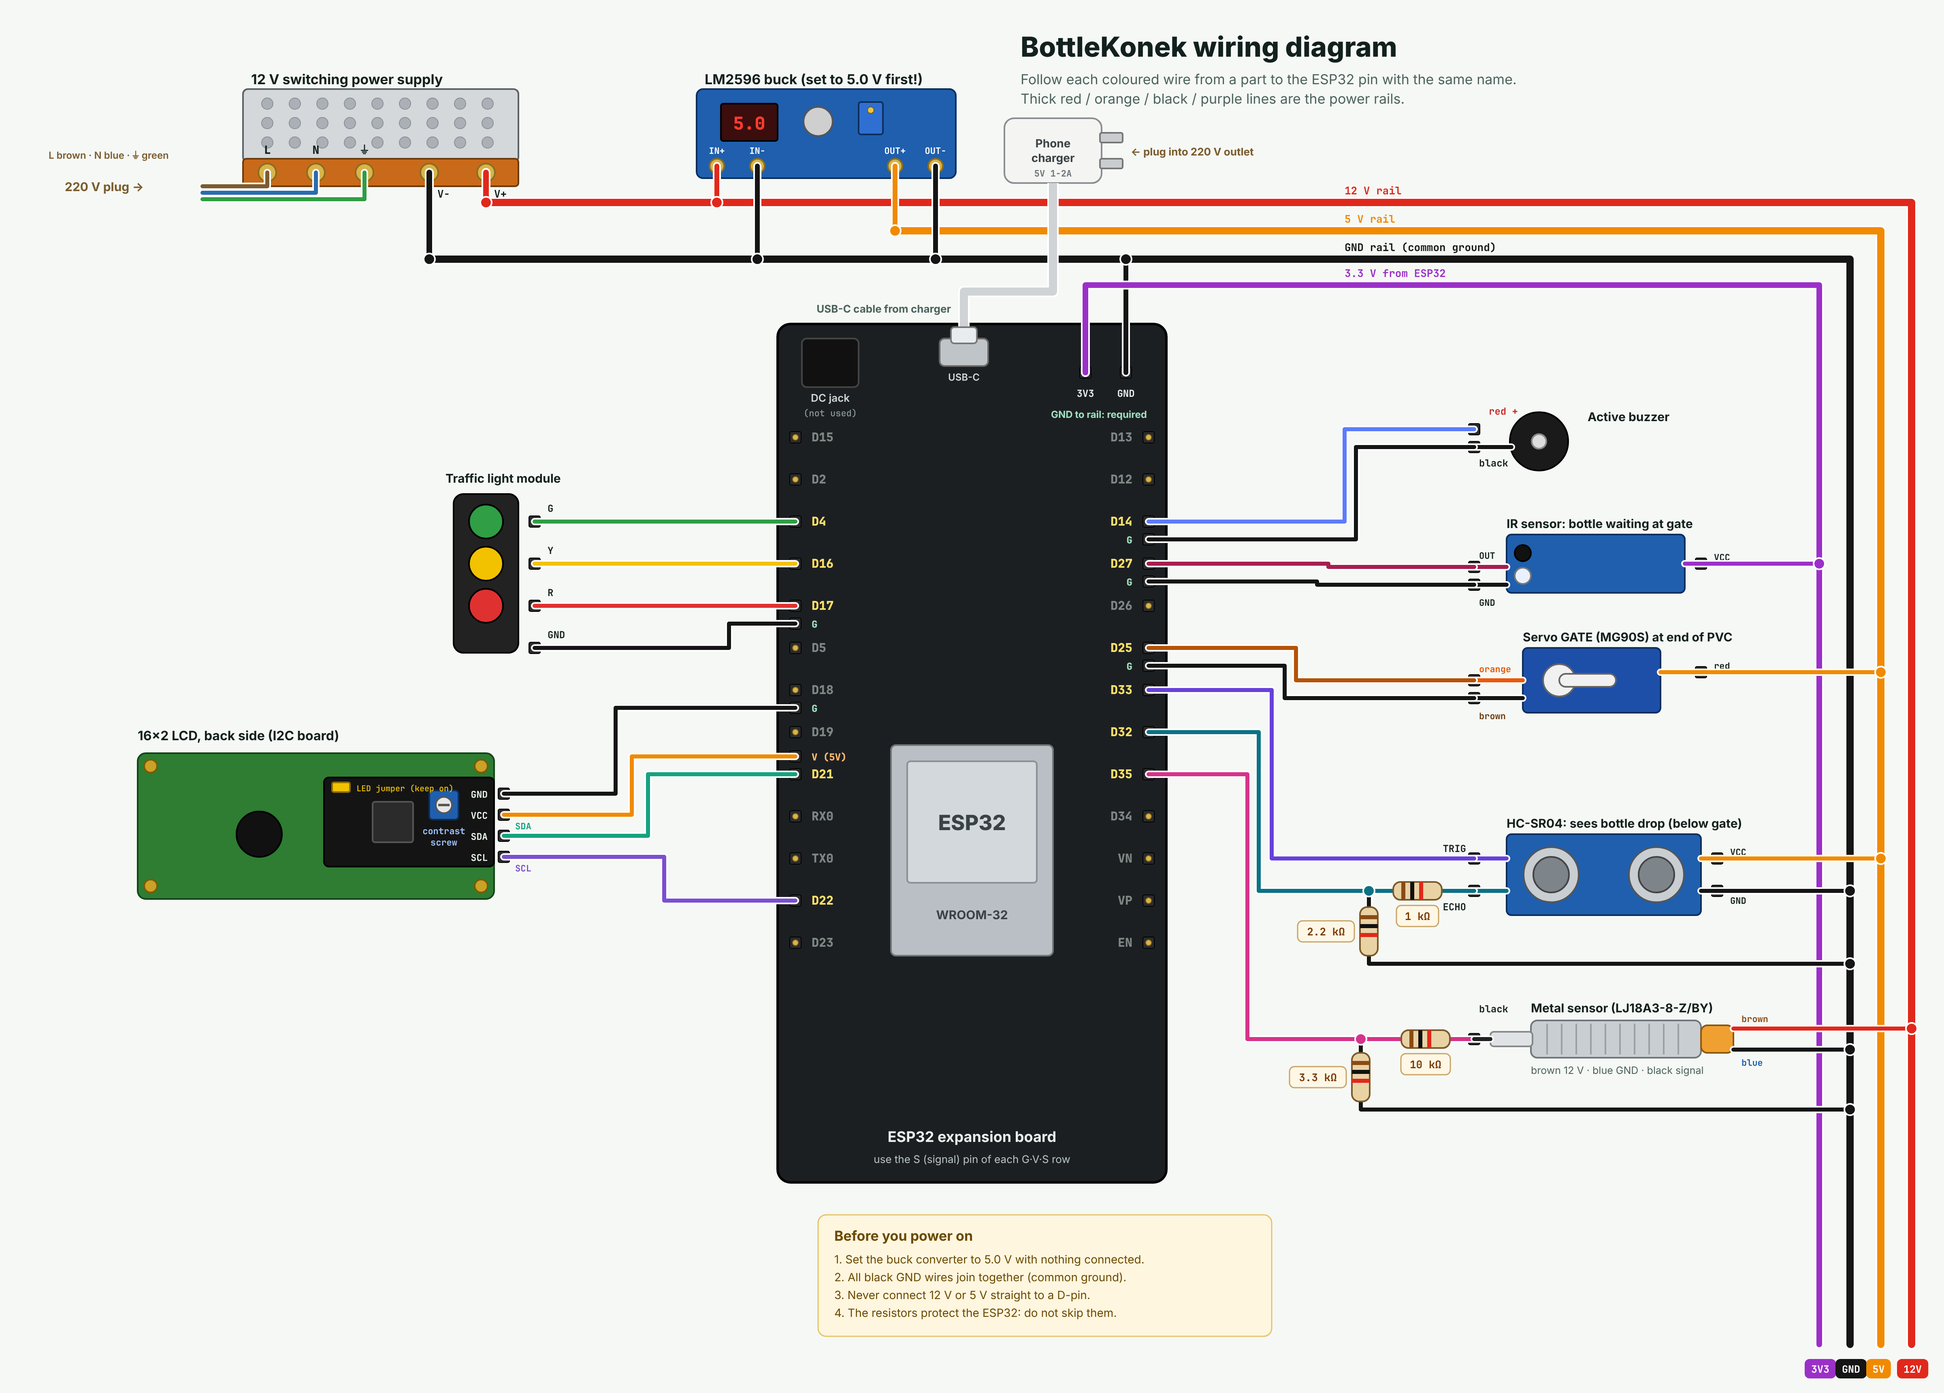
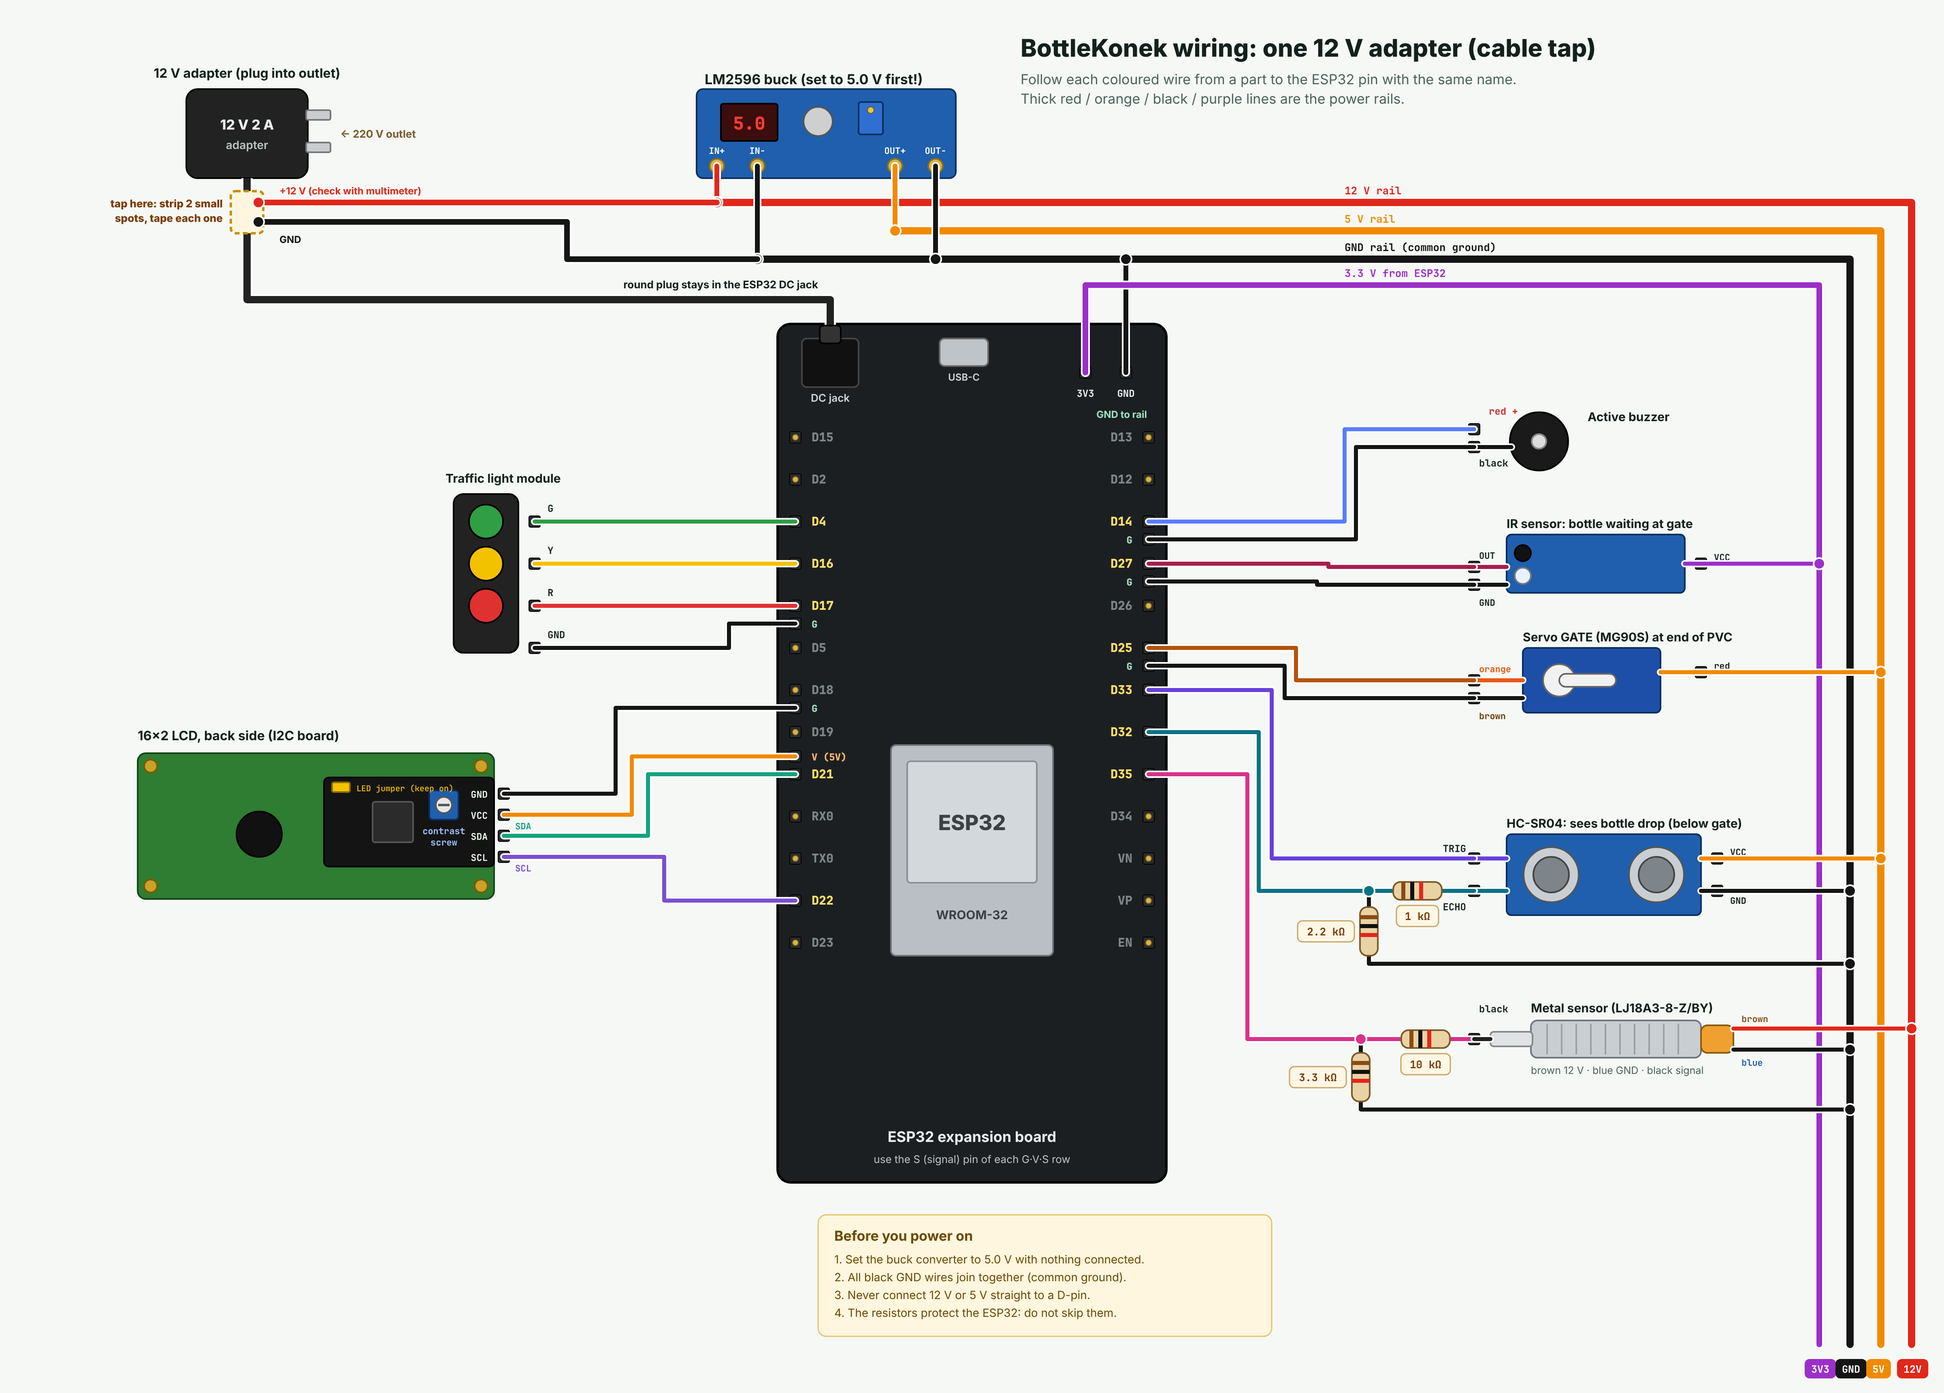
Final power: one 12 V adapter into the ESP32 jack, 12 V/GND tapped from the adapter cable; make it the main wiring diagram
Claude-Session: https://claude.ai/code/session_01FLWhppZiZoj8Tbu8EAL1cu

diff --git a/firmware/make_wiring_final.py b/firmware/make_wiring_final.py
@@ -1,0 +1,352 @@
+#!/usr/bin/env python3
+"""BottleKonek picture-style wiring diagram (real wires, part drawings).
+
+Writes wiring.svg; render to PNG with any browser (see README).
+Pin rows follow the ESP32 expansion board: left row D15..D23, right row D13..EN.
+"""
+from xml.sax.saxutils import escape
+
+W, H = 2400, 1720
+o = []
+
+C = dict(v12='#e0281b', v5='#f08a00', gnd='#151515', v33='#9b30c8')
+SIGCOL = ['#1f77d0', '#14a37f', '#d6338a', '#7a4fd1', '#c99a00', '#0aa5c2', '#e8590c', '#2f9e44',
+          '#5c7cfa', '#a61e4d', '#087f5b', '#b45309', '#6741d9', '#0b7285']
+
+
+def T(x, y, s, size=15, w=500, anchor='start', fill='#13211e', fam='Inter,Arial,sans-serif'):
+    o.append(f'<text x="{x}" y="{y}" font-size="{size}" font-weight="{w}" text-anchor="{anchor}" fill="{fill}" font-family="{fam}">{escape(s)}</text>')
+
+
+def M(x, y, s, size=13, w=700, anchor='start', fill='#13211e'):
+    T(x, y, s, size, w, anchor, fill, 'JetBrains Mono,Consolas,monospace')
+
+
+def R(x, y, w, h, fill, stroke='#13211e', rx=8, sw=2, extra=''):
+    o.append(f'<rect x="{x}" y="{y}" width="{w}" height="{h}" rx="{rx}" fill="{fill}" stroke="{stroke}" stroke-width="{sw}" {extra}/>')
+
+
+def Cc(x, y, r, fill, stroke='#13211e', sw=2):
+    o.append(f'<circle cx="{x}" cy="{y}" r="{r}" fill="{fill}" stroke="{stroke}" stroke-width="{sw}"/>')
+
+
+def wire(pts, col, w=5):
+    d = ' '.join(f'{x},{y}' for x, y in pts)
+    o.append(f'<polyline points="{d}" fill="none" stroke="#ffffff" stroke-width="{w+4}" stroke-linejoin="round" stroke-linecap="round"/>')
+    o.append(f'<polyline points="{d}" fill="none" stroke="{col}" stroke-width="{w}" stroke-linejoin="round" stroke-linecap="round"/>')
+
+
+def dot(x, y, col):
+    Cc(x, y, 7, col, '#ffffff', 2)
+
+
+def pinhead(x, y):
+    R(x - 7, y - 7, 14, 14, '#2b2b2b', '#000', 2, 1)
+    Cc(x, y, 3.5, '#d9b44a', '#8a6d1f', 1)
+
+
+def resistor(x, y, vertical, val):
+    """Resistor body centred at x,y. Wire must be drawn through it first."""
+    if vertical:
+        R(x - 11, y - 30, 22, 60, '#e9d3a5', '#7a5a2a', 9, 2)
+        for i, c in enumerate(['#8a4b14', '#111', '#e0281b']):
+            o.append(f'<rect x="{x-11}" y="{y-20+i*11}" width="22" height="5" fill="{c}"/>')
+        wv = 16 + 9 * len(val)
+        R(x - 18 - wv, y - 13, wv, 26, '#fff7e6', '#c9a464', 6, 1.5)
+        M(x - 18 - wv / 2, y + 5, val, 13, 700, 'middle', '#7a3b00')
+    else:
+        R(x - 30, y - 11, 60, 22, '#e9d3a5', '#7a5a2a', 9, 2)
+        for i, c in enumerate(['#8a4b14', '#111', '#e0281b']):
+            o.append(f'<rect x="{x-20+i*11}" y="{y-11}" width="5" height="22" fill="{c}"/>')
+        wv = 16 + 9 * len(val)
+        R(x - wv / 2, y + 18, wv, 26, '#fff7e6', '#c9a464', 6, 1.5)
+        M(x, y + 36, val, 13, 700, 'middle', '#7a3b00')
+
+
+def tag(x, y, s, col, anchor='start'):
+    wv = 14 + 8.2 * len(s)
+    xx = x if anchor == 'start' else x - wv
+    R(xx, y - 12, wv, 24, col, 'none', 6, 0)
+    M(xx + wv / 2, y + 5, s, 12.5, 700, 'middle', '#ffffff')
+
+
+# ---------------------------------------------------------------- background
+o.append(f'<rect width="{W}" height="{H}" fill="#f6f8f5"/>')
+T(1260, 70, 'BottleKonek wiring: one 12 V adapter (cable tap)', 30, 800)
+T(1260, 104, 'Follow each coloured wire from a part to the ESP32 pin with the same name.', 17, 400, fill='#4c635d')
+T(1260, 128, 'Thick red / orange / black / purple lines are the power rails.', 17, 400, fill='#4c635d')
+
+# ---------------------------------------------------------------- rails
+Y12, Y5, YG, Y33 = 250, 285, 320, 352
+XG_L, X5_L = 40, 76
+X33_R, XG_R, X5_R, X12_R = 2246, 2284, 2322, 2360
+BOT = 1660
+wire([(885, Y12), (X12_R, Y12), (X12_R, BOT)], C['v12'], 9)
+wire([(1105, Y5), (X5_R, Y5), (X5_R, BOT)], C['v5'], 9)
+wire([(935, YG), (XG_R, YG), (XG_R, BOT)], C['gnd'], 9)
+for x, s, col in [(X33_R, '3V3', C['v33']), (XG_R, 'GND', C['gnd']), (X5_R, '5V', C['v5']), (X12_R, '12V', C['v12'])]:
+    tag(x - 18, BOT + 30, s, col)
+M(1660, Y12 - 10, '12 V rail', 13, 700, 'start', C['v12'])
+M(1660, Y5 - 10, '5 V rail', 13, 700, 'start', C['v5'])
+M(1660, YG - 10, 'GND rail (common ground)', 13, 700, 'start', C['gnd'])
+
+# ---------------------------------------------------------------- buck converter
+R(860, 110, 320, 110, '#1f5fae', '#0d2f5c', 8)
+R(890, 128, 70, 46, '#3b0d0d', '#000', 3); M(925, 160, '5.0', 22, 800, 'middle', '#ff3b2f')
+Cc(1010, 150, 18, '#cfcfcf', '#555'); R(1060, 126, 30, 40, '#2f6fd1', '#0d2f5c', 3)
+Cc(1075, 136, 4, '#e8c547', '#7a5a00', 1)
+T(870, 104, 'LM2596 buck (set to 5.0 V first!)', 17, 700)
+for x, l in [(885, 'IN+'), (935, 'IN−'), (1105, 'OUT+'), (1155, 'OUT−')]:
+    Cc(x, 205, 9, '#d9b44a', '#8a6d1f', 2)
+    M(x, 196 - 6, l, 11, 700, 'middle', '#ffffff')
+wire([(885, 205), (885, Y12)], C['v12'], 6); dot(885, Y12, C['v12'])
+wire([(935, 205), (935, YG)], C['gnd'], 6); dot(935, YG, C['gnd'])
+wire([(1105, 205), (1105, Y5)], C['v5'], 6); dot(1105, Y5, C['v5'])
+wire([(1155, 205), (1155, YG)], C['gnd'], 6); dot(1155, YG, C['gnd'])
+
+# ---------------------------------------------------------------- ESP32 expansion board
+BX0, BY0, BW, BH = 960, 400, 480, 1060
+R(BX0, BY0, BW, BH, '#1c1f22', '#000', 16, 3)
+R(BX0 + 140, BY0 + 520, 200, 260, '#b9bfc4', '#6f767b', 6)
+R(BX0 + 160, BY0 + 540, 160, 150, '#d3d8dc', '#8a9196', 4)
+T(BX0 + 240, BY0 + 625, 'ESP32', 26, 800, 'middle', '#3b4246')
+T(BX0 + 240, BY0 + 735, 'WROOM-32', 15, 700, 'middle', '#3b4246')
+R(BX0 + 30, BY0 + 18, 70, 60, '#111', '#444', 6); T(BX0 + 65, BY0 + 96, 'DC jack', 13, 600, 'middle', '#cfd6d4')
+R(BX0 + 200, BY0 + 18, 60, 34, '#bfc4c8', '#666', 6); T(BX0 + 230, BY0 + 70, 'USB-C', 12, 600, 'middle', '#cfd6d4')
+T(BX0 + 240, BY0 + 1010, 'ESP32 expansion board', 18, 700, 'middle', '#e9efed')
+T(BX0 + 240, BY0 + 1036, 'use the S (signal) pin of each G·V·S row', 13, 400, 'middle', '#b9c4c1')
+T(BX0 + 456, BY0 + 116, 'GND to rail', 12, 700, 'end', '#9fe0c0')
+# ---- OPTION B: one 12 V adapter + DC splitter: one plug into the ESP32 jack, one into a DC jack terminal for the rails
+AX, AY = 230, 110
+R(AX, AY, 150, 110, '#222', '#000', 14)
+R(AX + 148, AY + 26, 30, 12, '#c9cdd0', '#777', 2); R(AX + 148, AY + 66, 30, 12, '#c9cdd0', '#777', 2)
+T(AX + 75, AY + 50, '12 V 2 A', 17, 800, 'middle', '#e9efed'); T(AX + 75, AY + 74, 'adapter', 14, 600, 'middle', '#b9c4c1')
+T(AX + 75, AY - 14, '12 V adapter (plug into outlet)', 16, 700, 'middle')
+T(AX + 190, AY + 60, '← 220 V outlet', 13, 700, 'start', '#7a5c2e')
+# adapter cable goes to the ESP32 DC jack; 12 V and GND are tapped from the middle of the cable
+def cable(pts):
+    d = ' '.join(f'{x},{y}' for x, y in pts)
+    o.append(f'<polyline points="{d}" fill="none" stroke="#ffffff" stroke-width="14" stroke-linejoin="round"/>')
+    o.append(f'<polyline points="{d}" fill="none" stroke="#222" stroke-width="9" stroke-linejoin="round"/>')
+TX = AX + 75
+cable([(TX, AY + 110), (TX, BY0 - 30), (BX0 + 65, BY0 - 30), (BX0 + 65, BY0 + 18)])
+R(BX0 + 52, BY0 + 2, 26, 22, '#333', '#000', 4)
+T(BX0 + 50, BY0 - 44, 'round plug stays in the ESP32 DC jack', 13, 700, 'end', '#13211e')
+# tap point (taped)
+TY = 262
+R(TX - 20, TY - 26, 40, 52, '#fff6df', '#c98f00', 6, 3, 'stroke-dasharray="6 4"')
+wire([(TX + 20, TY - 12), (720, TY - 12), (720, Y12), (885, Y12)], C['v12'], 7)
+wire([(TX + 20, TY + 12), (700, TY + 12), (700, YG), (935, YG)], C['gnd'], 7)
+dot(TX + 14, TY - 12, C['v12']); dot(TX + 14, TY + 12, C['gnd'])
+T(TX - 30, TY - 6, 'tap here: strip 2 small', 13, 800, 'end', '#7a3b00')
+T(TX - 30, TY + 12, 'spots, tape each one', 13, 800, 'end', '#7a3b00')
+T(TX + 40, TY - 22, '+12 V (check with multimeter)', 12, 700, 'start', C['v12'])
+T(TX + 40, TY + 38, 'GND', 12, 700, 'start', C['gnd'])
+# top power header
+P33 = (BX0 + 380, BY0 + 60); PG = (BX0 + 430, BY0 + 60)
+pinhead(*P33); pinhead(*PG)
+M(P33[0], P33[1] + 30, '3V3', 12, 700, 'middle', '#e9efed'); M(PG[0], PG[1] + 30, 'GND', 12, 700, 'middle', '#e9efed')
+wire([PG, (PG[0], YG)], C['gnd'], 6); dot(PG[0], YG, C['gnd'])
+wire([P33, (P33[0], Y33), (X33_R, Y33), (X33_R, BOT)], C['v33'], 7)
+M(1660, Y33 - 10, '3.3 V from ESP32', 13, 700, 'start', C['v33'])
+
+LROWS = ['D15', 'D2', 'D4', 'D16', 'D17', 'D5', 'D18', 'D19', 'D21', 'RX0', 'TX0', 'D22', 'D23']
+RROWS = ['D13', 'D12', 'D14', 'D27', 'D26', 'D25', 'D33', 'D32', 'D35', 'D34', 'VN', 'VP', 'EN']
+ROW0, PITCH = 540, 52
+LX, RXp = BX0 + 22, BX0 + BW - 22
+
+
+def ry(i):
+    return ROW0 + i * PITCH
+
+
+used_l = {'D4', 'D16', 'D17', 'D21', 'D22'}
+used_r = {'D14', 'D27', 'D25', 'D33', 'D32', 'D35'}
+for i, n in enumerate(LROWS):
+    pinhead(LX, ry(i))
+    M(LX + 20, ry(i) + 5, n, 15, 800, 'start', '#ffe066' if n in used_l else '#7d8784')
+for i, n in enumerate(RROWS):
+    pinhead(RXp, ry(i))
+    M(RXp - 20, ry(i) + 5, n, 15, 800, 'end', '#ffe066' if n in used_r else '#7d8784')
+
+
+def to_left_pin(name, pts, col):
+    y = ry(LROWS.index(name))
+    wire(pts + [(pts[-1][0], y), (LX, y)], col)
+
+
+def to_right_pin(name, pts, col):
+    y = ry(RROWS.index(name))
+    wire(pts + [(pts[-1][0], y), (RXp, y)], col)
+
+
+def left_g(name):
+    y = ry(LROWS.index(name)) + 22
+    pinhead(LX, y); M(LX + 20, y + 5, 'G', 12, 800, 'start', '#9fe0c0')
+    return y
+
+
+def left_v(name):
+    y = ry(LROWS.index(name)) - 22
+    pinhead(LX, y); M(LX + 20, y + 5, 'V (5V)', 12, 800, 'start', '#ffb86b')
+    return y
+
+
+# ---------------------------------------------------------------- LEFT: traffic light (standing, pins on right)
+TLX, TLY = 560, 610
+R(TLX, TLY, 80, 196, '#222', '#000', 12)
+tl = [('G', 'D4', '#2f9e44'), ('Y', 'D16', '#f2c200'), ('R', 'D17', '#e03131')]
+for n, pin, col in tl:
+    y = ry(LROWS.index(pin))
+    Cc(TLX + 40, y, 21, col, '#000')
+    pinhead(TLX + 100, y); M(TLX + 116, y - 12, n, 12, 700)
+    to_left_pin(pin, [(TLX + 100, y), (TLX + 100, y)], col)
+gnd_y = ry(LROWS.index('D17')) + 52
+pinhead(TLX + 100, gnd_y); M(TLX + 116, gnd_y - 12, 'GND', 12, 700)
+gt = left_g('D17')
+wire([(TLX + 100, gnd_y), (900, gnd_y), (900, gt), (LX, gt)], C['gnd'], 5)
+T(TLX - 10, TLY - 14, 'Traffic light module', 15, 700)
+
+# ---------------------------------------------------------------- LEFT: 16x2 LCD with I2C board (back view)
+LCDX, LCDY = 170, 930
+R(LCDX, LCDY, 440, 180, '#2e7d32', '#14451a', 10)
+for x, y in [(LCDX + 16, LCDY + 16), (LCDX + 424, LCDY + 16), (LCDX + 16, LCDY + 164), (LCDX + 424, LCDY + 164)]:
+    Cc(x, y, 8, '#c9a227', '#7a5a00', 2)
+Cc(LCDX + 150, LCDY + 100, 28, '#111', '#000')
+# the black I2C board on the back
+R(LCDX + 230, LCDY + 30, 210, 110, '#141414', '#000', 6)
+R(LCDX + 290, LCDY + 60, 50, 50, '#2b2b2b', '#555', 3)
+R(LCDX + 360, LCDY + 46, 36, 36, '#1f5fae', '#0d2f5c', 4); Cc(LCDX + 378, LCDY + 64, 10, '#e7e7e7', '#555')
+o.append(f'<line x1="{LCDX+371}" y1="{LCDY+64}" x2="{LCDX+385}" y2="{LCDY+64}" stroke="#555" stroke-width="3"/>')
+M(LCDX + 378, LCDY + 100, 'contrast', 11, 700, 'middle', '#9fc2ff')
+M(LCDX + 378, LCDY + 114, 'screw', 11, 700, 'middle', '#9fc2ff')
+R(LCDX + 240, LCDY + 36, 22, 12, '#f2c200', '#8a6d00', 2)
+M(LCDX + 270, LCDY + 47, 'LED jumper (keep on)', 10, 600, 'start', '#f2c200')
+T(LCDX, LCDY - 16, '16×2 LCD, back side (I2C board)', 16, 700)
+lp = {}
+for i, n in enumerate(['GND', 'VCC', 'SDA', 'SCL']):
+    y = LCDY + 50 + i * 26
+    lp[n] = y
+    pinhead(LCDX + 452, y); M(LCDX + 432, y + 5, n, 11.5, 700, 'end', '#e8f5e9')
+PX = LCDX + 452
+to_left_pin('D21', [(PX, lp['SDA']), (800, lp['SDA'])], SIGCOL[1])
+to_left_pin('D22', [(PX, lp['SCL']), (820, lp['SCL'])], SIGCOL[3])
+M(PX + 14, lp['SDA'] - 8, 'SDA', 11, 700, 'start', SIGCOL[1])
+M(PX + 14, lp['SCL'] + 18, 'SCL', 11, 700, 'start', SIGCOL[3])
+lg = left_g('D18')
+wire([(PX, lp['GND']), (760, lp['GND']), (760, lg), (LX, lg)], C['gnd'], 5)
+lv = left_v('D21')
+wire([(PX, lp['VCC']), (780, lp['VCC']), (780, lv), (LX, lv)], C['v5'], 5)
+
+# ---------------------------------------------------------------- RIGHT side parts
+CX = 1760            # left edge of right-side parts
+PW = 1820            # x where signal pins sit (left edge)
+
+# buzzer (D14)
+Cc(1900, 545, 36, '#1a1a1a', '#000'); Cc(1900, 545, 9, '#ddd', '#888')
+T(1960, 520, 'Active buzzer', 15, 700)
+pinhead(PW, 530); pinhead(PW, 552)
+M(PW + 18, 512, 'red +', 12, 700, 'start', '#c92a2a')
+to_right_pin('D14', [(PW, 530), (1660, 530)], SIGCOL[8])
+wire([(PW, 552), (1866, 552)], C['gnd'], 5)
+M(PW + 6, 576, 'black', 12, 700)
+
+# ESP32 G pin next to a row's S pin (each row is G · V · S on the board)
+def board_g(name):
+    y = ry(RROWS.index(name)) + 22
+    pinhead(RXp, y)
+    M(RXp - 20, y + 5, 'G', 12, 800, 'end', '#9fe0c0')
+    return y
+
+
+def gnd_to_board(name, ys, ch):
+    """GND wire from a part (left side, at height ys) to the G pin of that row, running beside the signal."""
+    gy = board_g(name)
+    gx = ch - 14 if ys > gy else ch + 14       # stay on the side that never crosses the signal wire
+    wire([(PW, ys), (gx, ys), (gx, gy), (RXp, gy)], C['gnd'], 5)
+
+
+gnd_to_board('D14', 552, 1660)   # buzzer black
+
+# IR module (D27): OUT + GND go to the ESP32 row D27, VCC to 3V3
+R(1860, 660, 220, 72, '#1f5fae', '#0d2f5c', 6)
+Cc(1880, 683, 10, '#111', '#000'); Cc(1880, 711, 10, '#e9f0ff', '#777')
+T(1860, 652, 'IR sensor: bottle waiting at gate', 15, 700)
+pinhead(PW, 700); pinhead(PW, 722)
+M(PW + 6, 690, 'OUT', 11, 700); M(PW + 6, 748, 'GND', 11, 700)
+wire([(PW, 700), (1860, 700)], SIGCOL[9]); wire([(PW, 722), (1860, 722)], C['gnd'], 5)
+to_right_pin('D27', [(PW, 700), (1640, 700)], SIGCOL[9])
+gnd_to_board('D27', 722, 1640)
+pinhead(2100, 696); M(2116, 692, 'VCC', 11)
+wire([(2080, 696), (X33_R, 696)], C['v33'], 5); dot(X33_R, 696, C['v33'])
+
+
+def servo(y, title, pin, ch, col):
+    R(1880, y, 170, 80, '#1e4fa8', '#0d2f5c', 6)
+    Cc(1925, y + 40, 20, '#f1f1f1', '#666'); R(1925, y + 32, 70, 16, '#f1f1f1', '#666', 8)
+    T(1880, y - 8, title, 15, 700)
+    pinhead(PW, y + 40); pinhead(PW, y + 62)
+    M(PW + 6, y + 30, 'orange', 11, 700, 'start', '#e8590c'); M(PW + 6, y + 88, 'brown', 11, 700, 'start', '#6b3a0c')
+    wire([(PW, y + 40), (1880, y + 40)], '#e8590c'); wire([(PW, y + 62), (1880, y + 62)], C['gnd'], 5)
+    to_right_pin(pin, [(PW, y + 40), (ch, y + 40)], col)
+    gnd_to_board(pin, y + 62, ch)
+    pinhead(2100, y + 30); M(2116, y + 26, 'red', 11)
+    wire([(2050, y + 30), (2100, y + 30), (X5_R, y + 30)], C['v5'], 5); dot(X5_R, y + 30, C['v5'])
+
+
+servo(800, 'Servo GATE (MG90S) at end of PVC', 'D25', 1600, SIGCOL[11])
+
+# HC-SR04 (D33 trig, D32 echo with 1k / 2.2k)
+R(1860, 1030, 240, 100, '#1f5fae', '#0d2f5c', 6)
+for x in (1915, 2045):
+    Cc(x, 1080, 34, '#c9ced2', '#555'); Cc(x, 1080, 22, '#7d858a', '#444')
+T(1860, 1022, 'HC-SR04: sees bottle drop (below gate)', 15, 700)
+pinhead(PW, 1060); pinhead(PW, 1100)
+M(PW - 10, 1052, 'TRIG', 12, 700, 'end'); M(PW - 10, 1124, 'ECHO', 12, 700, 'end')
+wire([(PW, 1060), (1860, 1060)], SIGCOL[12]); wire([(PW, 1100), (1860, 1100)], SIGCOL[13])
+to_right_pin('D33', [(PW, 1060), (1570, 1060)], SIGCOL[12])
+# echo: PW -> 1k -> node(1690) -> channel 1560; node -> 2.2k down -> GND
+to_right_pin('D32', [(PW, 1100), (1554, 1100)], SIGCOL[13])
+resistor(1750, 1100, False, '1 kΩ')
+wire([(1690, 1100), (1690, 1190), (XG_R, 1190)], C['gnd'], 5); dot(1690, 1100, SIGCOL[13]); dot(XG_R, 1190, C['gnd'])
+resistor(1690, 1150, True, '2.2 kΩ')
+pinhead(2120, 1060); pinhead(2120, 1100)
+M(2136, 1056, 'VCC', 11); M(2136, 1116, 'GND', 11)
+wire([(2100, 1060), (X5_R, 1060)], C['v5'], 5); dot(X5_R, 1060, C['v5'])
+wire([(2100, 1100), (XG_R, 1100)], C['gnd'], 5); dot(XG_R, 1100, C['gnd'])
+
+
+def sensor(y, title, sub):
+    R(1890, y, 210, 46, '#c9ced2', '#6f767b', 8)
+    for i in range(10):
+        o.append(f'<line x1="{1910+i*18}" y1="{y+4}" x2="{1910+i*18}" y2="{y+42}" stroke="#9aa1a6" stroke-width="2"/>')
+    R(2100, y + 6, 40, 34, '#f0a030', '#8a5a10', 8)
+    R(1840, y + 14, 52, 18, '#dfe3e6', '#888', 4)
+    T(1890, y - 10, title, 15, 700)
+    T(1890, y + 66, sub, 12.5, 400, fill='#4c635d')
+
+
+# BY (PNP) -> D35 : 10k series, 3.3k to GND
+sensor(1260, 'Metal sensor (LJ18A3-8-Z/BY)', 'brown 12 V · blue GND · black signal')
+pinhead(PW, 1283); M(PW + 6, 1250, 'black', 12, 700)
+to_right_pin('D35', [(PW, 1283), (1540, 1283)], SIGCOL[2])
+resistor(1760, 1283, False, '10 kΩ')
+wire([(1680, 1283), (1680, 1370), (XG_R, 1370)], C['gnd'], 5); dot(1680, 1283, SIGCOL[2]); dot(XG_R, 1370, C['gnd'])
+resistor(1680, 1330, True, '3.3 kΩ')
+wire([(1840, 1283), (PW, 1283)], '#222')
+wire([(2140, 1270), (X12_R, 1270)], C['v12'], 5); dot(X12_R, 1270, C['v12'])
+wire([(2140, 1296), (XG_R, 1296)], C['gnd'], 5); dot(XG_R, 1296, C['gnd'])
+M(2150, 1262, 'brown', 11, 700, 'start', '#8a4b14'); M(2150, 1316, 'blue', 11, 700, 'start', '#1f5fae')
+
+# ---------------------------------------------------------------- notes box
+R(1010, 1500, 560, 150, '#fff6df', '#e3c46a', 10, 1.5)
+T(1030, 1532, 'Before you power on', 17, 700, fill='#6b4a00')
+for i, s in enumerate(['1. Set the buck converter to 5.0 V with nothing connected.',
+                       '2. All black GND wires join together (common ground).',
+                       '3. Never connect 12 V or 5 V straight to a D-pin.',
+                       '4. The resistors protect the ESP32: do not skip them.']):
+    T(1030, 1560 + i * 22, s, 14, 400, fill='#6b4a00')
+
+svg = f'<svg xmlns="http://www.w3.org/2000/svg" viewBox="0 0 {W} {H}" width="{W}" height="{H}">' + ''.join(x for x in o if x) + '</svg>'
+open('wiring_final.svg', 'w').write(svg)
+print('wrote wiring.svg')
